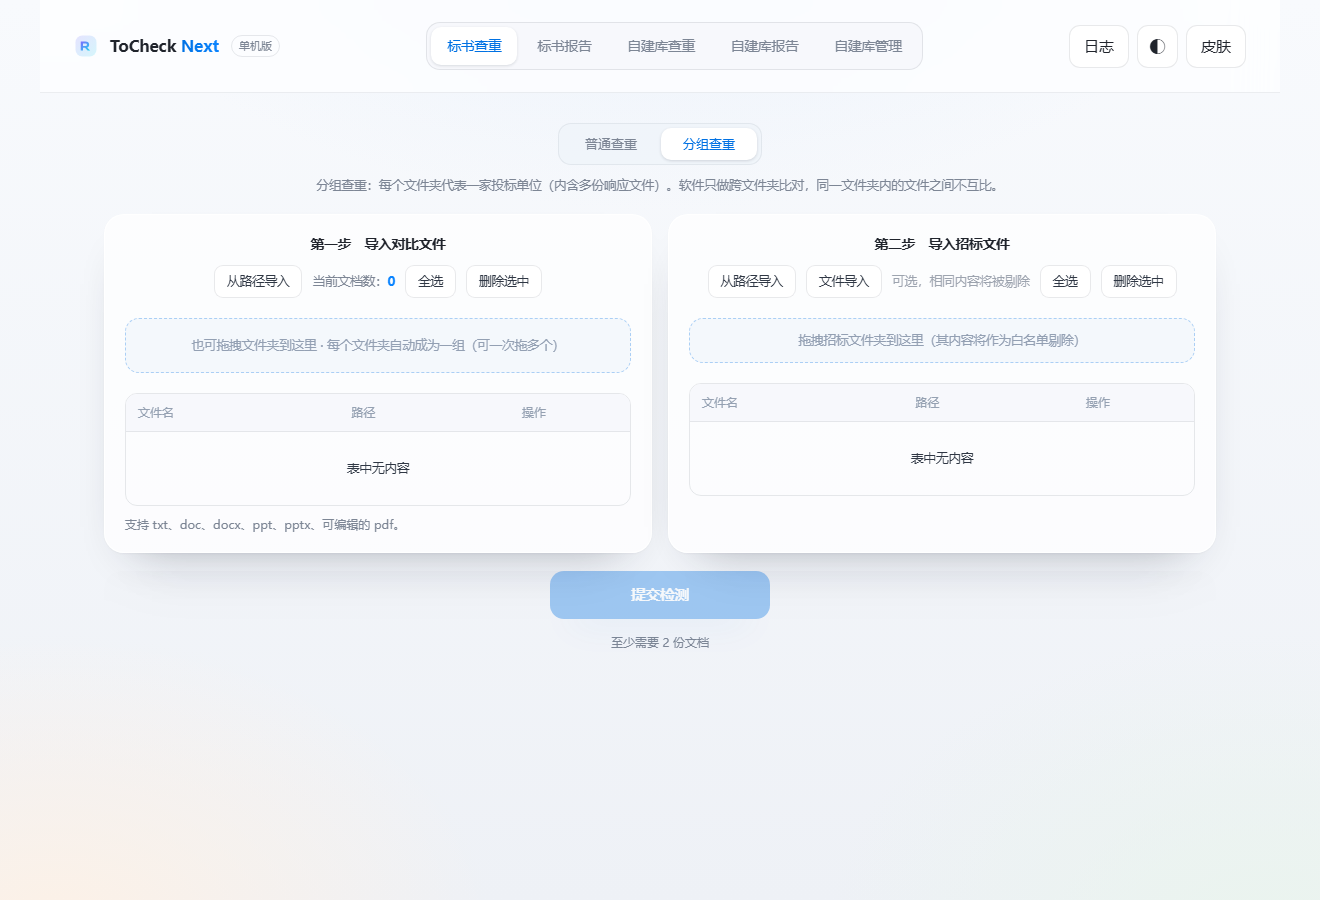
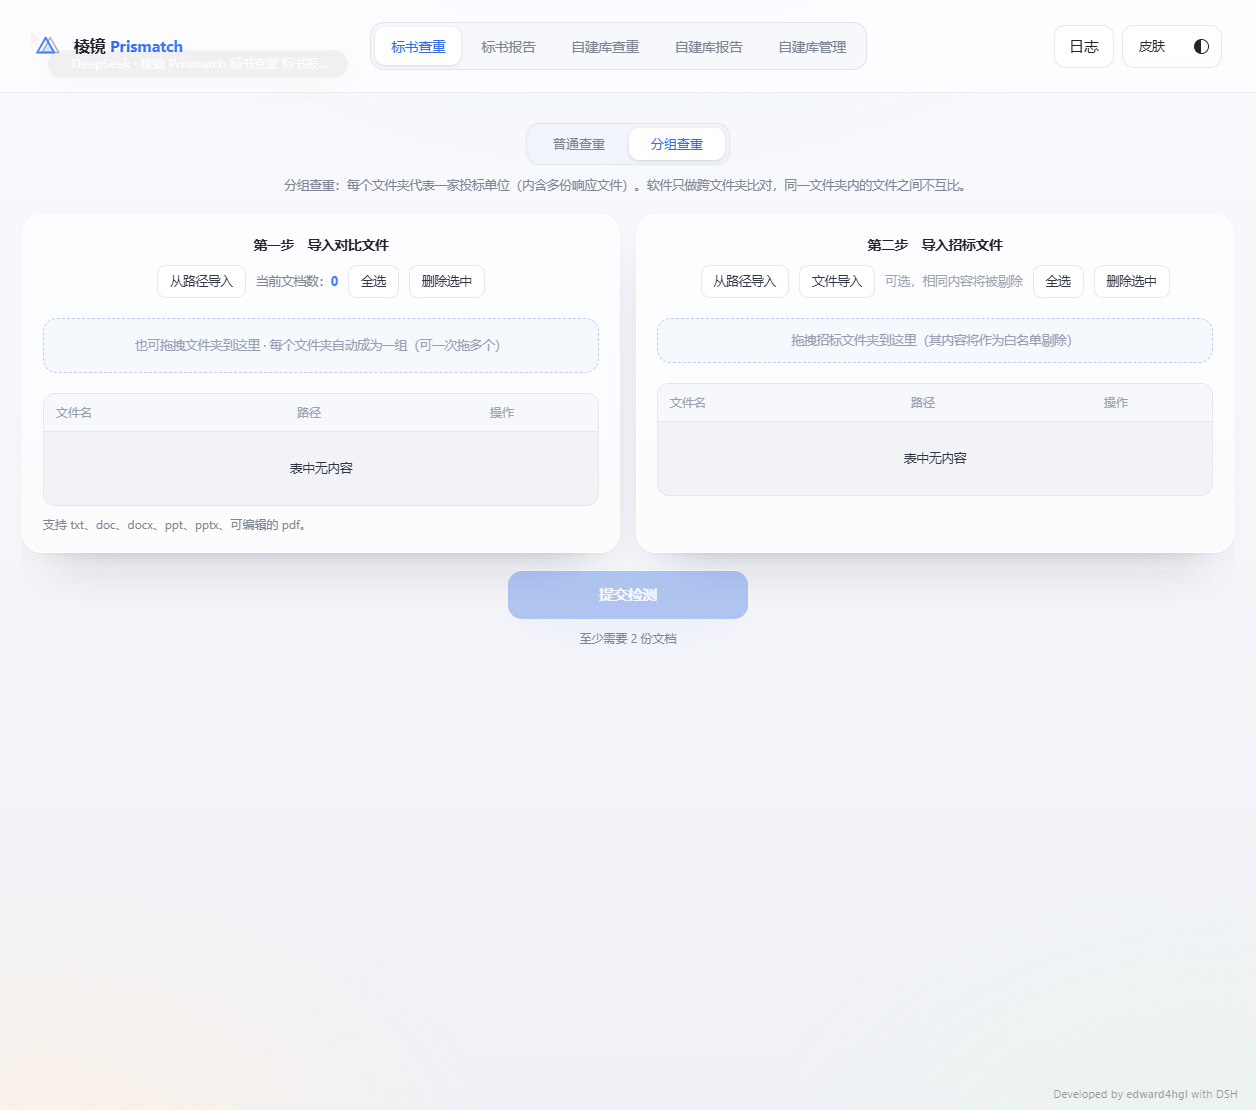
feat: 右下角署名角标; docs: README 换用最新界面截图

diff --git a/app/static/style.css b/app/static/style.css
@@ -1087,14 +1087,14 @@ body{overflow-x:hidden!important;max-width:none!important}
 .credit{
   position:fixed;right:18px;bottom:11px;z-index:30;
   font-size:11px;line-height:1;letter-spacing:.02em;
-  color:var(--dim);opacity:.5;
+  color:var(--fg);opacity:.45;
   pointer-events:none;user-select:none;
   transition:opacity .2s ease;
 }
-.credit b{font-weight:600;color:var(--fg);opacity:.85}
-body:hover .credit{opacity:.62}
+.credit b{font-weight:600;color:var(--fg);opacity:.9}
+body:hover .credit{opacity:.6}
 :root[data-skin="geek"] .credit{letter-spacing:.08em}
 :root[data-skin="geek"] .credit b{color:var(--acc)}
-:root[data-skin="pixel"] .credit{font-size:11.5px;opacity:.6}
-:root[data-skin="pixel"] .credit b{color:var(--acc2)}
+:root[data-skin="pixel"] .credit{font-size:11.5px;opacity:.7;letter-spacing:.04em}
+:root[data-skin="pixel"] .credit b{color:var(--fg);opacity:1}
 @media print{.credit{display:none}}
